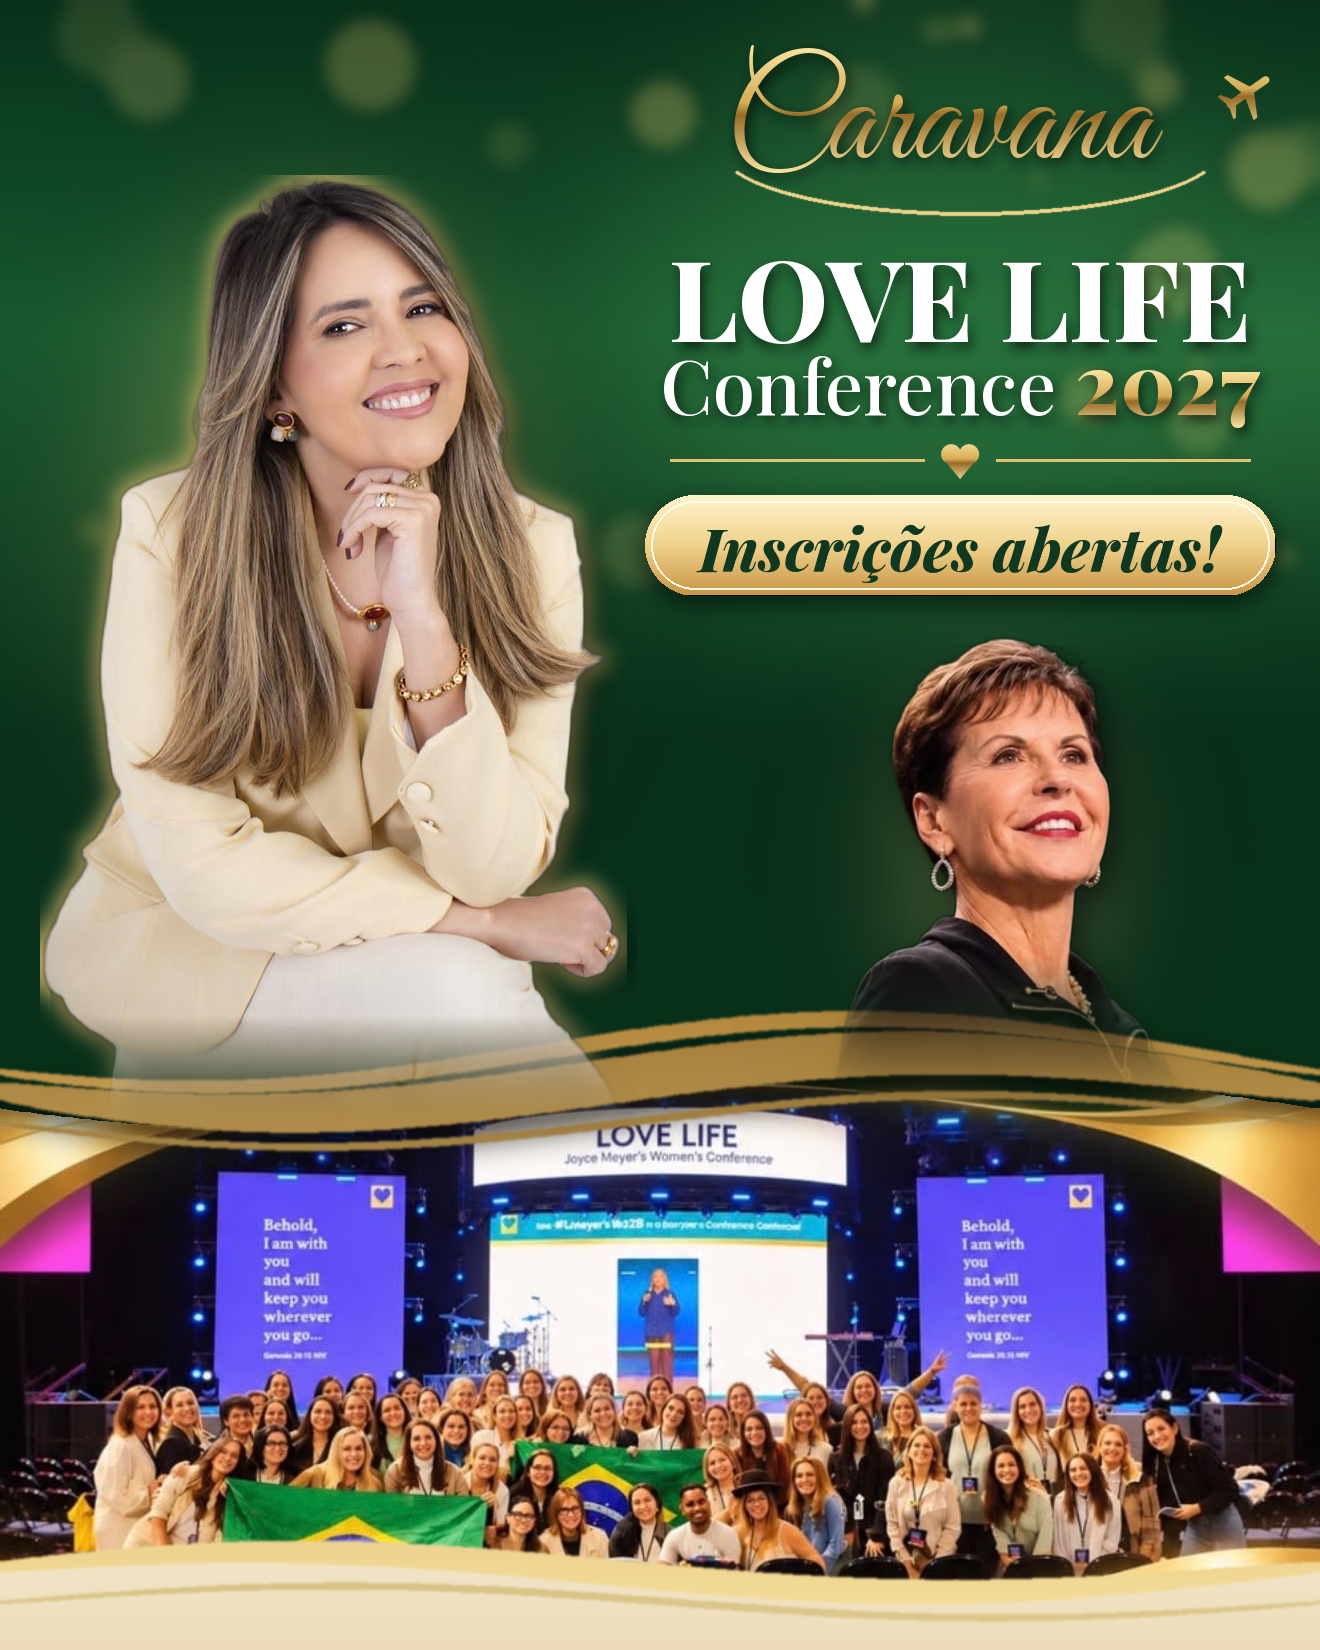
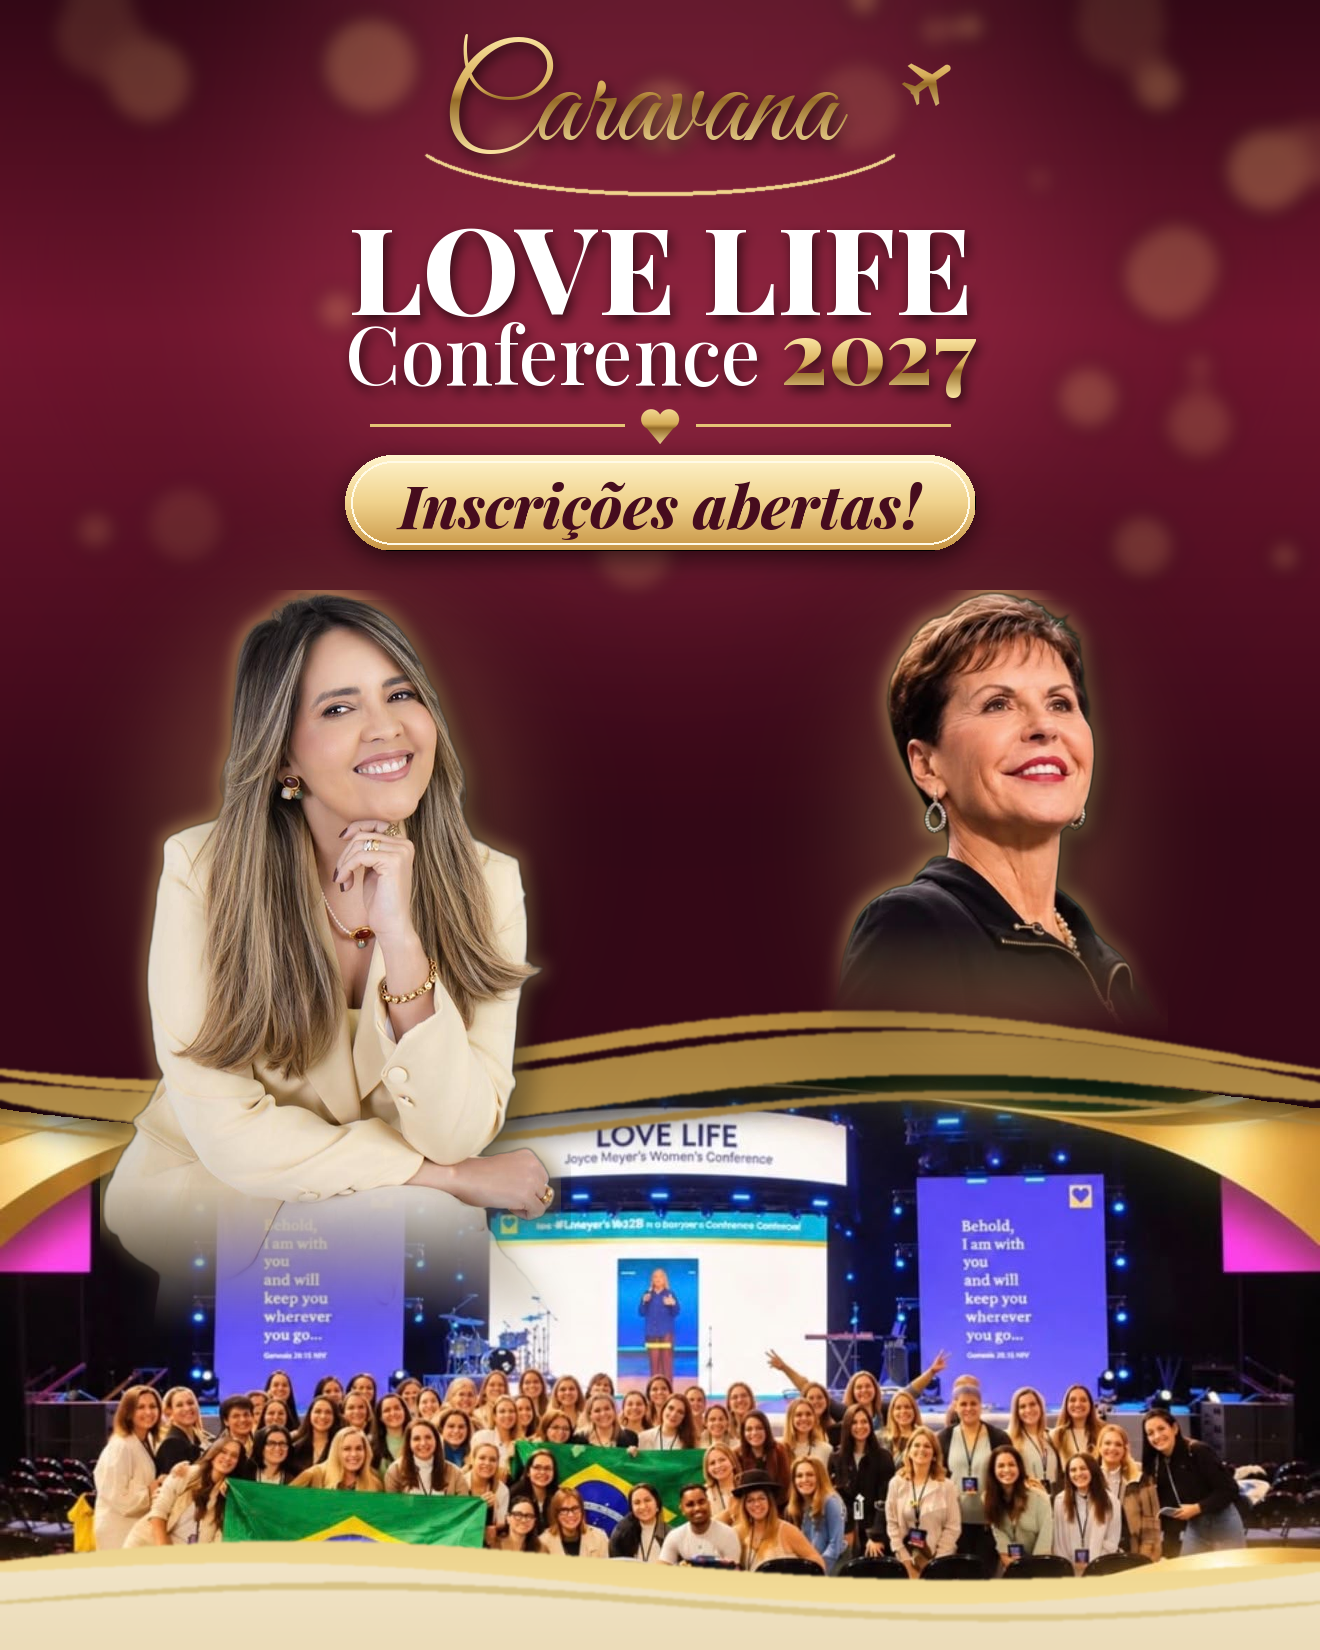
Caravana art: burgundy background, both speakers same face size
Claude-Session: https://claude.ai/code/session_01PeFsoJEW3VKskFdZgNUYzx

diff --git a/caravana/gerar_arte.py b/caravana/gerar_arte.py
@@ -21,8 +21,9 @@ OUT = A("caravana_love_life_2027.png")
 GOLD_L = (250, 228, 160)
 GOLD = (214, 172, 88)
 GOLD_D = (150, 108, 40)
-GREEN_D = (8, 48, 26)
-GREEN = (22, 92, 48)
+BG_D = (52, 8, 22)    # vinho escuro
+BG = (118, 22, 48)    # vinho
+TXT_PILULA = (70, 12, 30)
 
 
 def fonte(nome, tam, peso=None):
@@ -171,9 +172,9 @@ def cola_com_sombra(img, p, x, y):
 
 def main():
     gy = 1075  # topo da foto do grupo
-    img = gradiente_v(W, H, [(0, GREEN_D), (0.2, GREEN), (0.45, GREEN_D), (1, GREEN_D)]).convert("RGBA")
+    img = gradiente_v(W, H, [(0, BG_D), (0.2, BG), (0.5, BG_D), (1, BG_D)]).convert("RGBA")
     luz = Image.new("RGBA", (W, H), (0, 0, 0, 0))
-    ImageDraw.Draw(luz).ellipse((500, 0, 1400, 700), fill=(70, 150, 80, 90))
+    ImageDraw.Draw(luz).ellipse((160, -100, 1160, 650), fill=(190, 60, 90, 90))
     img.alpha_composite(luz.filter(ImageFilter.GaussianBlur(120)))
     bokeh(img)
 
@@ -197,25 +198,21 @@ def main():
     pinta_ouro(img, faixa_onda(gy - 22, 34, 16, 0.6), 1.1)
     pinta_ouro(img, faixa_onda(gy + 46, 26, 8, 0.1), 0.9)
 
-    # ---------- Joyce Meyer (palestrante), à direita, abaixo do título ----------
-    j = recorte("joyce_recortada.png", 470, 150, corte=600)
-    jx = 1000 - j.width // 2
-    halo = Image.new("RGBA", (W, H), (0, 0, 0, 0))
-    ImageDraw.Draw(halo).ellipse((jx + 40, 650, jx + j.width - 40, 1080), fill=(255, 210, 120, 60))
-    img.alpha_composite(halo.filter(ImageFilter.GaussianBlur(70)))
-    cola_com_sombra(img, j, jx, gy + 30 - j.height)
-
-    # ---------- nova mulher, corpo inteiro (com a calça branca), à esquerda ----------
-    m = recorte("mulher_recortada.png", 950, 110)
-    mx, my = 40, 175
-    # brilho dourado no contorno, para destacá-la sobre a foto do grupo
-    glow = Image.new("RGBA", m.size, (255, 215, 130, 0))
-    glow.putalpha(m.getchannel("A").filter(ImageFilter.MaxFilter(9)).filter(ImageFilter.GaussianBlur(10)).point(lambda v: v * 0.8))
-    img.alpha_composite(glow, (mx, my))
-    halo = Image.new("RGBA", (W, H), (0, 0, 0, 0))
-    ImageDraw.Draw(halo).ellipse((60, 160, 560, 900), fill=(255, 210, 120, 70))
-    img.alpha_composite(halo.filter(ImageFilter.GaussianBlur(90)))
-    cola_com_sombra(img, m, mx, my)
+    # ---------- as duas pessoas lado a lado, com o rosto do mesmo tamanho ----------
+    # o rosto ocupa ~29% da altura do recorte dela (vai até a calça) e ~48% do
+    # recorte da Joyce (busto); as alturas abaixo deixam os dois rostos com ~215 px.
+    topo = 590  # as duas cabeças começam na mesma altura
+    m = recorte("mulher_recortada.png", 746, 150)
+    j = recorte("joyce_recortada.png", 445, 110, corte=600)
+    for p, cxp in ((m, 330), (j, 990)):
+        x, y = cxp - p.width // 2, topo
+        halo = Image.new("RGBA", (W, H), (0, 0, 0, 0))
+        ImageDraw.Draw(halo).ellipse((x + 20, y - 30, x + p.width - 20, y + 520), fill=(255, 210, 120, 65))
+        img.alpha_composite(halo.filter(ImageFilter.GaussianBlur(70)))
+        glow = Image.new("RGBA", p.size, (255, 215, 130, 0))
+        glow.putalpha(p.getchannel("A").filter(ImageFilter.MaxFilter(7)).filter(ImageFilter.GaussianBlur(8)).point(lambda v: v * 0.6))
+        img.alpha_composite(glow, (x, y))
+        cola_com_sombra(img, p, x, y)
 
     # ---------- faixa creme de baixo ----------
     cm = Image.new("L", (W, H), 0)
@@ -229,23 +226,23 @@ def main():
     pinta_ouro(img, faixa_onda(H - 48, 16, 7, 3.1), 0.9)
 
     # ---------- título (coluna da direita) ----------
-    cx = 960
-    texto_ouro(img, (cx - 20, 125), "Caravana", fonte("GreatVibes-Regular.ttf", 140))
-    img.alpha_composite(aviao(85, rot=-55), (1205, 50))
+    cx = W // 2
+    texto_ouro(img, (cx - 20, 110), "Caravana", fonte("GreatVibes-Regular.ttf", 130))
+    img.alpha_composite(aviao(80, rot=-55), (cx + 230, 40))
     curva = Image.new("L", (W, H), 0)
-    ImageDraw.Draw(curva).arc((720, 85, 1220, 215), 20, 160, fill=255, width=4)
+    ImageDraw.Draw(curva).arc((cx - 250, 75, cx + 250, 195), 20, 160, fill=255, width=4)
     pinta_ouro(img, curva.filter(ImageFilter.GaussianBlur(0.6)))
 
-    texto_branco(img, (cx, 295), "LOVE LIFE", fonte("PlayfairDisplay.ttf", 112, 800))
-    f_conf = fonte("PlayfairDisplay.ttf", 76, 500)
-    f_ano = fonte("PlayfairDisplay.ttf", 84, 800)
+    texto_branco(img, (cx, 265), "LOVE LIFE", fonte("PlayfairDisplay.ttf", 120, 800))
+    f_conf = fonte("PlayfairDisplay.ttf", 80, 500)
+    f_ano = fonte("PlayfairDisplay.ttf", 88, 800)
     w_conf = f_conf.getlength("Conference ")
     w_ano = f_ano.getlength("2027")
     x0 = cx - (w_conf + w_ano) / 2
-    texto_branco(img, (x0, 415), "Conference ", f_conf, anchor="ls")
-    texto_ouro(img, (x0 + w_conf, 415), "2027", f_ano, anchor="ls")
+    texto_branco(img, (x0, 385), "Conference ", f_conf, anchor="ls")
+    texto_ouro(img, (x0 + w_conf, 385), "2027", f_ano, anchor="ls")
 
-    ly = 460
+    ly = 425
     linha = Image.new("L", (W, H), 0)
     ImageDraw.Draw(linha).line((cx - 290, ly, cx - 36, ly), fill=255, width=3)
     ImageDraw.Draw(linha).line((cx + 36, ly, cx + 290, ly), fill=255, width=3)
@@ -253,7 +250,7 @@ def main():
     img.alpha_composite(coracao(42), (cx - 21, ly - 20))
 
     # pílula "Inscrições abertas!"
-    bx0, by0, bx1, by1 = cx - 315, 495, cx + 315, 595
+    bx0, by0, bx1, by1 = cx - 315, 455, cx + 315, 550
     pm = Image.new("L", (W, H), 0)
     ImageDraw.Draw(pm).rounded_rectangle((bx0, by0, bx1, by1), 50, fill=255)
     s = Image.new("RGBA", (W, H), (0, 0, 0, 0))
@@ -267,7 +264,7 @@ def main():
                                           outline=(255, 250, 230), width=2)
     ImageDraw.Draw(img).text((cx, (by0 + by1) / 2 + 2), "Inscrições abertas!",
                              font=fonte("PlayfairDisplay-Italic.ttf", 60, 800),
-                             fill=(16, 56, 32), anchor="mm")
+                             fill=TXT_PILULA, anchor="mm")
 
     img.convert("RGB").save(OUT, quality=95)
     print("gerado:", OUT)
